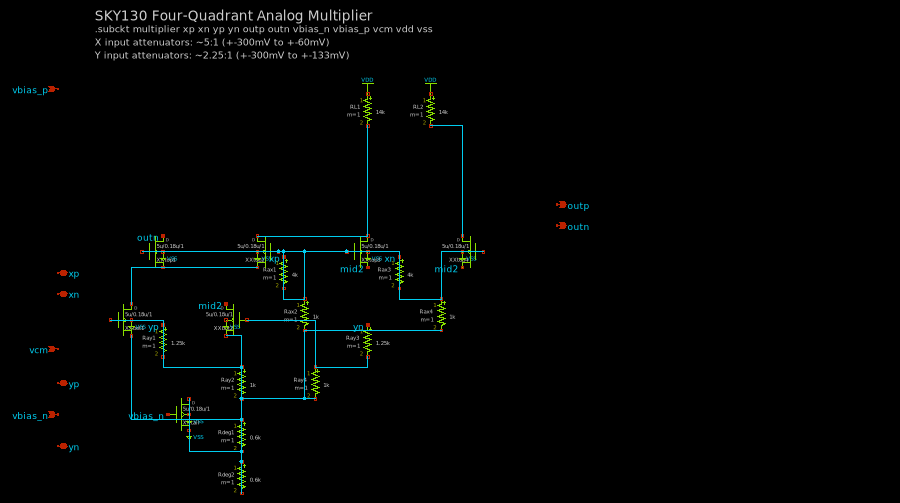
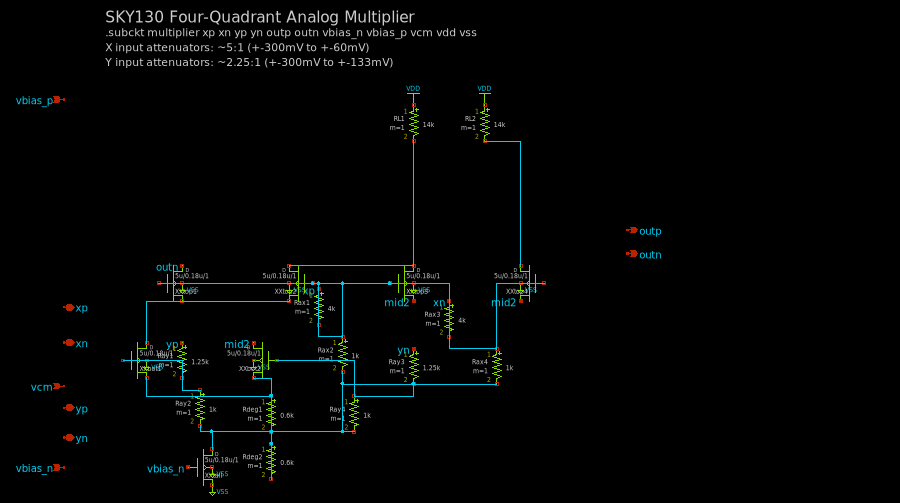
Better divider pair y-positioning: midpoint between endpoints
- Place divider pairs at y midpoint between shared and non-shared nodes
- Multiplier: degeneration resistors now between diff pair and tail
- Integrator: resistors better positioned in signal path, 1 crossing

diff --git a/src/placer.py b/src/placer.py
@@ -873,10 +873,23 @@ def place_circuit(circuit: Circuit) -> PlacedCircuit:
                     cx, cy = pos
                 else:
                     continue
-            # Stack vertically — offset y to avoid overlapping transistors at same level
-            # Try placing to the right at a slight y offset, then further right
+            # Also find non-shared pin positions for y midpoint calculation
+            ext_positions = []
+            for name in chain:
+                for pin in ["pin1", "pin2"]:
+                    net = circuit.components[name].pins.get(pin, "")
+                    if net not in shared:
+                        pos = _find_pin_centroid(circuit, name, pin, result)
+                        if pos:
+                            ext_positions.append(pos)
+
+            # Stack vertically — place between shared and non-shared endpoints
             base_x = _snap(cx + 120)
-            base_y = _snap(cy + 40)  # Slightly below the gate connection
+            if ext_positions:
+                ext_cy = sum(p[1] for p in ext_positions) / len(ext_positions)
+                base_y = _snap((cy + ext_cy) / 2)  # Midpoint between shared and external
+            else:
+                base_y = _snap(cy + 40)
             for i, name in enumerate(chain):
                 px = base_x
                 py = _snap(base_y + i * 80)
